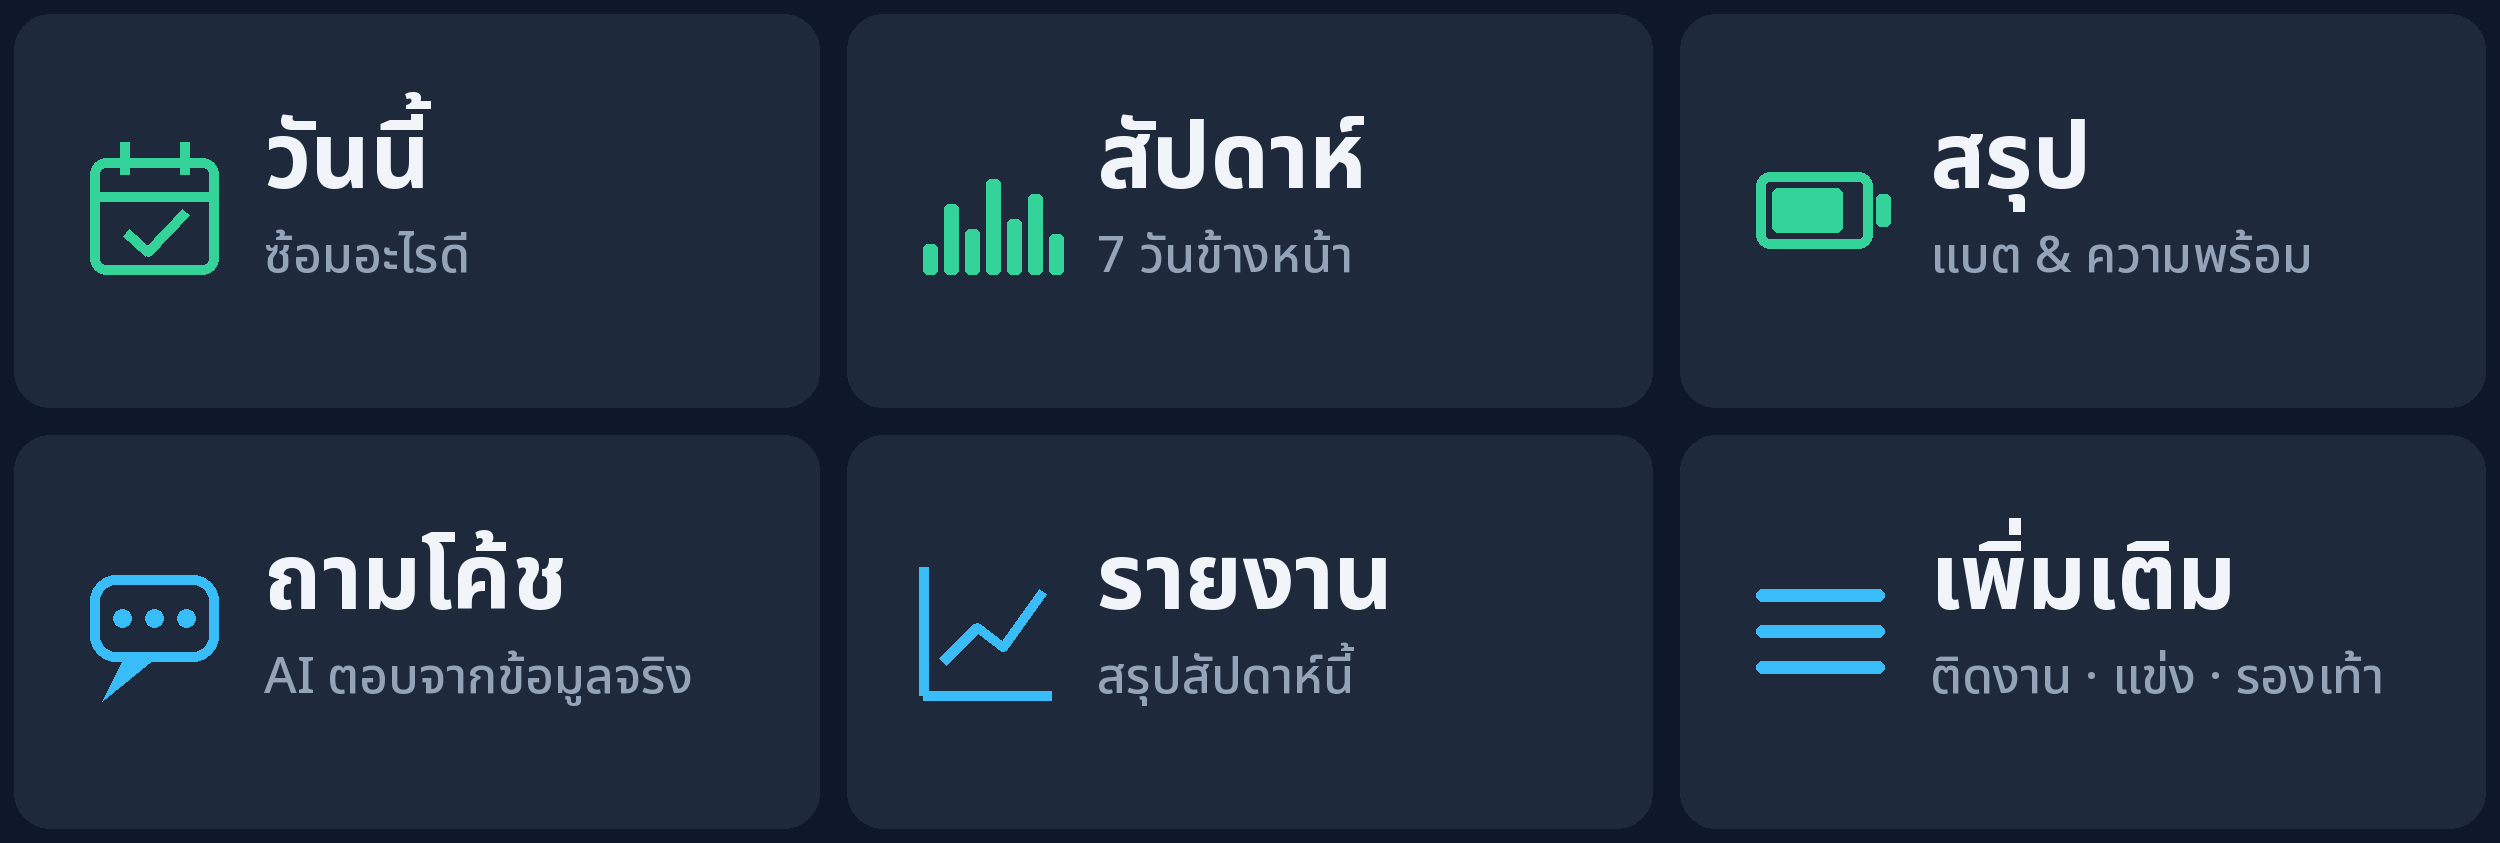
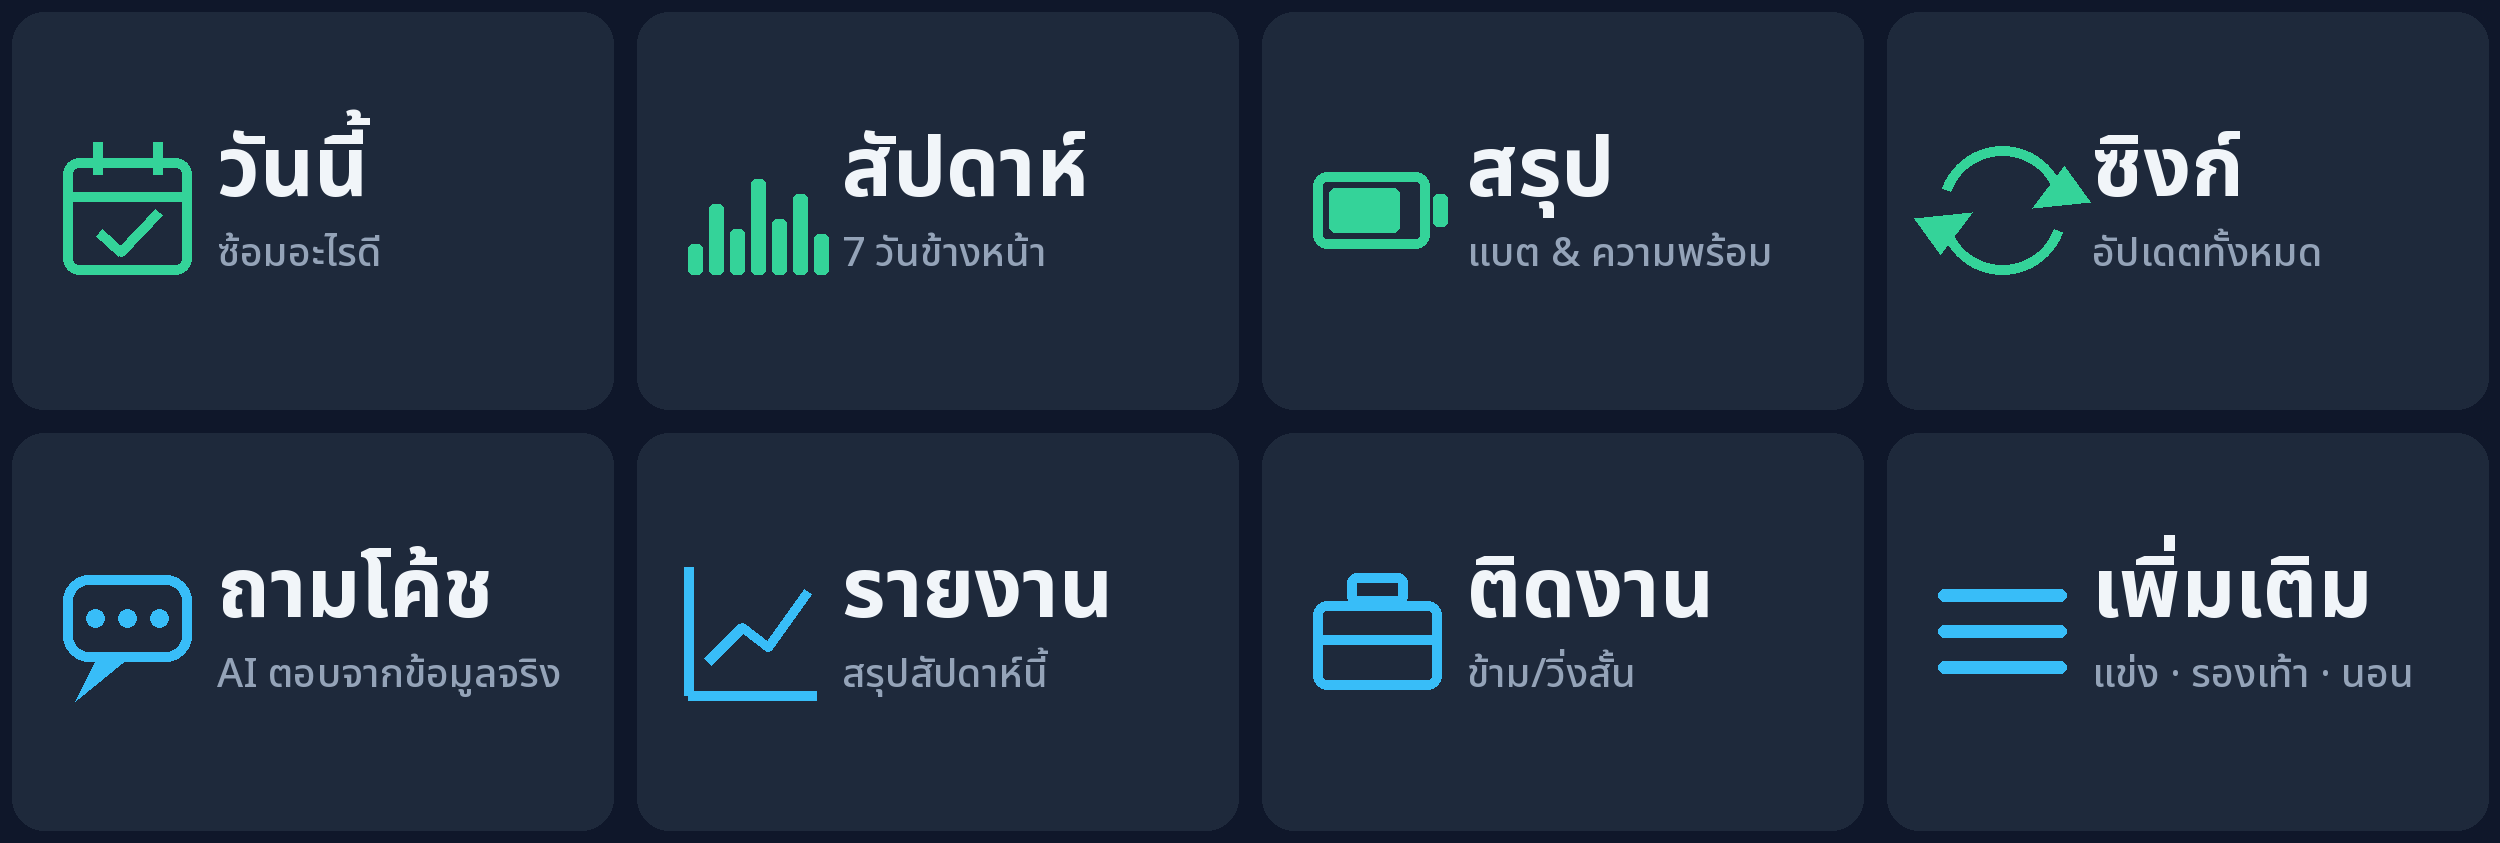
LINE: 🔄 ซิงก์ button (Google sleep + latest Garmin data + coach adjust + summary), 8-button rich menu with ติดงาน
Claude-Session: https://claude.ai/code/session_01NujFM5WVYXTpnC4wPnMLnc

Changed region(s): [[0.0, 0.6168, 0.9672, 0.8327], [0.2496, 0.1234, 0.936, 0.3393], [0.0, 0.1234, 0.1872, 0.3393]]

diff --git a/app/worker/index.ts b/app/worker/index.ts
@@ -49,6 +49,7 @@ export interface Env extends AiEnv {
 const REDIRECT_PATH = '/google/callback'
 const KV_REFRESH = 'google_refresh_token'
 const KV_STATUS = 'google_sleep_status'
+const KV_LAST_SYNC = 'last_manual_sync'
 
 const googleCreds = (env: Env): GoogleCreds | null => (env.GOOGLE_CLIENT_ID && env.GOOGLE_CLIENT_SECRET ? { clientId: env.GOOGLE_CLIENT_ID, clientSecret: env.GOOGLE_CLIENT_SECRET } : null)
 
@@ -361,11 +362,27 @@ async function handle(ev: LineEvent, env: Env): Promise<LineMessage[]> {
     return questionMessages(data.openQuestions)
   }
 
-  if (/^(ซิงก์|sync|ปรับตาราง)$/i.test(msg)) {
+  if (/^(ซิงก์|ซิงค์|sync|ปรับตาราง|🔄 ?ซิงก์|อัปเดต|อัพเดท)$/i.test(msg)) {
+    // 1) การนอนจาก Google Health  2) ผลวิ่ง/HRV ล่าสุดที่ Garmin ส่งเข้า Intervals  3) โค้ชปรับตาราง  4) สรุป
+    const sleep = env.KV && (await env.KV.get(KV_REFRESH)) ? await runSleepSync(env, 2) : null
+    const lastIso = (await env.KV?.get(KV_LAST_SYNC)) ?? ''
     const data = await loadAndAnalyze(client, cfg, today)
     const r = await commitReport(client, cfg, data, today)
     const fresh = await loadAndAnalyze(client, cfg, today)
-    return [text(`${r.applied ? `🔧 ปรับตาราง ${r.applied} รายการ\n\n` : ''}${fresh.report.summary}`, MENU), ...questionMessages(fresh.openQuestions)].slice(0, 5)
+    const acts = (await client.activities(addDays(today, -3), today)).filter((a) => (a.distance ?? 0) > 0)
+    const newActs = lastIso ? acts.filter((a) => a.start_date_local > lastIso) : acts.slice(-3)
+    await env.KV?.put(KV_LAST_SYNC, nowBkkIso())
+    const L: string[] = ['🔄 ซิงก์แล้ว', '']
+    L.push(
+      newActs.length
+        ? `🏃 ${lastIso ? 'กิจกรรมใหม่' : 'กิจกรรมล่าสุด'}: ${newActs.map((a) => `${dayLabel(a.start_date_local.slice(0, 10))} ${a.name ?? 'Run'} ${((a.distance ?? 0) / 1000).toFixed(1)} กม.`).join(' · ')}`
+        : '🏃 ยังไม่มีกิจกรรมใหม่จาก Garmin (ถ้าเพิ่งวิ่งเสร็จ เปิดแอป Garmin Connect ให้ซิงก์ก่อน แล้วกดอีกครั้ง)',
+    )
+    if (sleep) L.push(sleep.ok ? `😴 การนอน: ${sleep.text.split('\n').slice(-1)[0]}` : `😴 การนอน: ${sleep.text}`)
+    L.push(r.applied ? `🔧 ปรับตาราง ${r.applied} รายการ` : '🔧 ตารางไม่ต้องปรับ')
+    L.push('', fresh.report.summary)
+    if (r.applied) L.push('', '⌚ เปิดแอป Garmin Connect ให้ซิงก์ workout ที่ปรับแล้วลงนาฬิกา')
+    return [text(L.join('\n'), MENU), ...questionMessages(fresh.openQuestions)].slice(0, 5)
   }
 
   const inj = /^(เจ็บ|ตึง|ปวด|บาดเจ็บ)(?:\s+(.*))?$/s.exec(msg)

diff --git a/app/scripts/richmenu.ts b/app/scripts/richmenu.ts
@@ -1,6 +1,6 @@
 // ─────────────────────────────────────────────────────────────
 // ตั้งเมนูถาวร (Rich menu) ของ LINE OA คู่ซ้อม
-// รูป: assets/richmenu.png (2500×843, 3×2 ปุ่ม) สร้างด้วย scripts/richmenu-image.py
+// รูป: assets/richmenu.png (2500×843, 4×2 ปุ่ม) สร้างด้วย scripts/richmenu-image.py
 // รันผ่าน GitHub Actions (.github/workflows/richmenu.yml) — ใช้ secret LINE_CHANNEL_ACCESS_TOKEN
 // ─────────────────────────────────────────────────────────────
 import { readFileSync } from 'node:fs'
@@ -9,15 +9,18 @@ const token = process.env.LINE_CHANNEL_ACCESS_TOKEN?.trim()
 const NAME = 'koosom-main'
 const W = 2500
 const H = 843
-const CW = Math.floor(W / 3)
+const COLS = 4
+const CW = Math.floor(W / COLS)
 const CH = Math.floor(H / 2)
 
 const buttons = [
   { label: 'วันนี้', text: 'วันนี้' },
   { label: 'สัปดาห์', text: 'สัปดาห์' },
   { label: 'สรุป', text: 'สรุป' },
+  { label: 'ซิงก์', text: 'ซิงก์' },
   { label: 'ถามโค้ช', text: 'ถามโค้ช' },
   { label: 'รายงาน', text: 'รายงาน' },
+  { label: 'ติดงาน', text: 'ติดงาน' },
   { label: 'เพิ่มเติม', text: 'เพิ่มเติม' },
 ]
 
@@ -39,7 +42,7 @@ async function main() {
     name: NAME,
     chatBarText: 'เมนูคู่ซ้อม',
     areas: buttons.map((b, i) => ({
-      bounds: { x: (i % 3) * CW, y: Math.floor(i / 3) * CH, width: i % 3 === 2 ? W - 2 * CW : CW, height: i >= 3 ? H - CH : CH },
+      bounds: { x: (i % COLS) * CW, y: Math.floor(i / COLS) * CH, width: i % COLS === COLS - 1 ? W - (COLS - 1) * CW : CW, height: i >= COLS ? H - CH : CH },
       action: { type: 'message', label: b.label, text: b.text },
     })),
   }

diff --git a/app/src/coach/line.ts b/app/src/coach/line.ts
@@ -51,13 +51,13 @@ export function flex(altText: string, contents: unknown, quick?: QuickItem[]): L
 }
 
 export const MENU: QuickItem[] = [
+  { label: '🔄 ซิงก์', text: 'ซิงก์' },
   { label: '📅 วันนี้ซ้อมอะไร', text: 'วันนี้' },
   { label: '🗓 7 วันข้างหน้า', text: 'สัปดาห์' },
   { label: '🔋 แบตเตอรี่/สรุป', text: 'สรุป' },
   { label: '📊 รายงานสัปดาห์', text: 'รายงาน' },
   { label: '💬 ถามโค้ช AI', text: 'ถามโค้ช' },
   { label: '❓ คำถามค้าง', text: 'คำถาม' },
-  { label: '↻ ซิงก์ & ปรับตาราง', text: 'ซิงก์' },
   { label: '🩹 แจ้งเจ็บ', text: 'เจ็บ ' },
 ]
 
@@ -72,7 +72,7 @@ export const MORE: QuickItem[] = [
   { label: '😴 การนอน (Google)', text: 'การนอน' },
   { label: '🎯 เป้า & ความพร้อม', text: 'เป้า' },
   { label: '❓ คำถามค้าง', text: 'คำถาม' },
-  { label: '↻ ซิงก์ & ปรับตาราง', text: 'ซิงก์' },
+  { label: '🔄 ซิงก์', text: 'ซิงก์' },
   { label: '🩹 แจ้งเจ็บ', text: 'เจ็บ ' },
 ]
 

diff --git a/app/scripts/richmenu-image.py b/app/scripts/richmenu-image.py
@@ -1,13 +1,14 @@
-"""สร้างรูป Rich menu ของคู่ซ้อม (2500x843, 3x2 ปุ่ม)"""
+"""สร้างรูป Rich menu ของคู่ซ้อม (2500x843, 4x2 ปุ่ม)"""
 import sys
 from PIL import Image, ImageDraw, ImageFont
 
 W, H = 2500, 843
-CW, CH = W // 3, H // 2
+COLS = 4
+CW, CH = W // COLS, H // 2
 FONT = "/tmp/fonts/package/files/noto-sans-thai-thai-{}-normal.woff"
 LAT = "/tmp/fonts/package/files/noto-sans-thai-latin-{}-normal.woff"
-big = (ImageFont.truetype(FONT.format(700), 92), ImageFont.truetype(LAT.format(700), 92))
-small = (ImageFont.truetype(FONT.format(500), 50), ImageFont.truetype(LAT.format(500), 50))
+big = (ImageFont.truetype(FONT.format(700), 84), ImageFont.truetype(LAT.format(700), 84))
+small = (ImageFont.truetype(FONT.format(500), 40), ImageFont.truetype(LAT.format(500), 40))
 
 BG = (15, 23, 42)
 CELL = (30, 41, 59)
@@ -47,6 +48,15 @@ def icon(kind, cx, cy, col):
         d.line([cx - s, cy + s, cx + s, cy + s], fill=col, width=w)
         d.line([cx - s, cy - s, cx - s, cy + s], fill=col, width=w)
         d.line([cx - 44, cy + 30, cx - 10, cy - 4, cx + 16, cy + 16, cx + 56, cy - 40], fill=col, width=w, joint="curve")
+    elif kind == "sync":  # ลูกศรวนสองทาง
+        d.arc([cx - s, cy - s, cx + s, cy + s], 200, 340, fill=col, width=w)
+        d.arc([cx - s, cy - s, cx + s, cy + s], 20, 160, fill=col, width=w)
+        d.polygon([(cx + s - 2, cy - 44), (cx + s + 24, cy - 8), (cx + s - 34, cy - 2)], fill=col)
+        d.polygon([(cx - s + 2, cy + 44), (cx - s - 24, cy + 8), (cx - s + 34, cy + 2)], fill=col)
+    elif kind == "busy":  # กระเป๋าทำงาน
+        d.rounded_rectangle([cx - s, cy - 30, cx + s, cy + s - 6], 14, outline=col, width=w)
+        d.rounded_rectangle([cx - 30, cy - 58, cx + 30, cy - 26], 10, outline=col, width=w)
+        d.line([cx - s, cy + 8, cx + s, cy + 8], fill=col, width=w)
     elif kind == "more":
         for y in (cy - 36, cy, cy + 36):
             d.rounded_rectangle([cx - s, y - 6, cx + s, y + 6], 6, fill=col)
@@ -72,20 +82,22 @@ cells = [
     ("today", "วันนี้", "ซ้อมอะไรดี", ACCENT),
     ("week", "สัปดาห์", "7 วันข้างหน้า", ACCENT),
     ("battery", "สรุป", "แบต & ความพร้อม", ACCENT),
+    ("sync", "ซิงก์", "อัปเดตทั้งหมด", ACCENT),
     ("chat", "ถามโค้ช", "AI ตอบจากข้อมูลจริง", ACC2),
     ("report", "รายงาน", "สรุปสัปดาห์นี้", ACC2),
-    ("more", "เพิ่มเติม", "ติดงาน · แข่ง · รองเท้า", ACC2),
+    ("busy", "ติดงาน", "ข้าม/วิ่งสั้น", ACC2),
+    ("more", "เพิ่มเติม", "แข่ง · รองเท้า · นอน", ACC2),
 ]
 
 for i, (kind, label, sub, col) in enumerate(cells):
-    c, r = i % 3, i // 3
-    x0, y0 = c * CW + 14, r * CH + 14
-    x1, y1 = (c + 1) * CW - 14, (r + 1) * CH - 14
-    d.rounded_rectangle([x0, y0, x1, y1], 36, fill=CELL)
-    icon(kind, x0 + 140, (y0 + y1) // 2, col)
-    tx = x0 + 250
-    mixed((tx, (y0 + y1) // 2 - 22), label, big, TXT)
-    mixed((tx, (y0 + y1) // 2 + 62), sub, small, SUB)
+    c, r = i % COLS, i // COLS
+    x0, y0 = c * CW + 12, r * CH + 12
+    x1, y1 = (c + 1) * CW - 12, (r + 1) * CH - 12
+    d.rounded_rectangle([x0, y0, x1, y1], 32, fill=CELL)
+    icon(kind, x0 + 115, (y0 + y1) // 2, col)
+    tx = x0 + 205
+    mixed((tx, (y0 + y1) // 2 - 14), label, big, TXT)
+    mixed((tx, (y0 + y1) // 2 + 56), sub, small, SUB)
 
 out = sys.argv[1] if len(sys.argv) > 1 else "richmenu.png"
 img.save(out, optimize=True)
